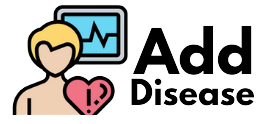
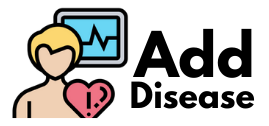
change layout

Changed region(s): [[0.0301, 0.0242, 0.4812, 0.9435], [0.5113, 0.1935, 0.9624, 0.629], [0.4812, 0.5323, 0.9624, 0.871]]

diff --git a/src/client/src/ui/layout/DNATest.js b/src/client/src/ui/layout/DNATest.js
@@ -74,7 +74,6 @@ function DNATestPage(){
   const handleSubmit = (e) => {
       e.preventDefault();
       setFormErrors(validate(formValues));
-      setResult(Information);
       setIsSubmit(true);
       createDNAtest(e);
       // createDNAtest(e).then(res => {getDNATest(e)});
@@ -198,13 +197,13 @@ function DNATestPage(){
 
   return (
         <div className='dnatest'>
-            <Flex align="center" justify="center" style={{height : "20vh", width : "93.3vw", marginLeft : "5vw"}}>
-                <Box>
-                  <Image boxSize='100%' src={dnatest} alt="logo"/>
+            <Flex backgroundColor="#91ACCA" align="center" justify="center" style={{height : "20vh", width : "93.3vw", marginLeft : "5vw"}}>
+                <Box py={"10px"}>
+                  <Image marginTop={"4vh"} marginBottom={"4vh"} boxSize='90%' src={dnatest} alt="logo"/>
                 </Box>
             </Flex>
 
-            <Box mb = '20px' align = "Center" marginTop={"3vh"} borderRadius={"20px"} marginLeft={"12vw"} marginRight={"7vw"} width={"80.3vw"} backgroundColor="#C0DBF8" padding={"1pt"}>
+            <Box align = "Center" marginTop={"3vh"} borderRadius={"20px"} marginLeft={"12vw"} marginRight={"7vw"} width={"80.3vw"} padding={"1pt"}>
             <VStack>
               <VStack p = '5px'>
                   <VStack px = '10'>
@@ -215,7 +214,7 @@ function DNATestPage(){
                               <Input name='namapengguna'  placeholder='Write your name here!' value={formValues.namapengguna}
                               onChange = {handleChange}
                               backgroundColor="white"
-                              border="2px solid #012B39"
+                              border="2px solid #BBC8D4"
                               width = "100%"
                               minWidth = "20vw"
                               maxWidth = "20vw"
@@ -228,6 +227,7 @@ function DNATestPage(){
                       Disease
                     </Box>
                       <Box borderRadius={"5pt"} backgroundColor={"white"} 
+                      border="2px solid #BBC8D4"
                       padding="0 0 0 10pt" 
                       width="100%" minWidth="20vw" maxWidth="20vw"
                       >
@@ -248,7 +248,9 @@ function DNATestPage(){
                       DNA Sequence
                     </Box>
                     <Flex>
-                        <Box style={{padding:"4pt 0 0 0", marginLeft:"5vw", marginTop:"5pt", border: "1px", width:"100%", minWidth:"17vw", maxWidth:"17vw", height:"100%", minHeight:"6vh", maxHeight:"6vh", backgroundColor:"white", borderRadius:"5pt"}} className="file-label" htmlFor='customFile'>
+                        <Box style={{padding:"4pt 0 0 0", marginLeft:"5vw", marginTop:"5pt", 
+                        border: "2px solid #BBC8D4", 
+                        width:"100%", minWidth:"17vw", maxWidth:"17vw", height:"100%", minHeight:"6vh", maxHeight:"6vh", backgroundColor:"white", borderRadius:"5pt"}} className="file-label" htmlFor='customFile'>
                             {filename}
                           </Box>
                           <Button onClick={handleClick} marginTop="1vh" colorScheme="blue">
@@ -299,7 +301,7 @@ function DNATestPage(){
               </VStack>
               
             </VStack>
-              <Box ref={scrollToRef}  backgroundColor={"#E1E5F1"} borderRadius="15pt" marginTop={"5vh"} marginBottom={"5vh"} width={"77vw"}>
+              <Box ref={scrollToRef} backgroundColor={"#E1E5F1"} borderRadius="15pt" marginTop={"5vh"} marginBottom={"5vh"} width={"77vw"}>
                 {result}
                 {/* <{result} props={data}/> */}
               </Box>

diff --git a/src/client/src/ui/layout/AddDisease.js b/src/client/src/ui/layout/AddDisease.js
@@ -1,8 +1,6 @@
 import { useToast, Button, FormControl,Input, Box, Flex, Spacer, Heading, Image, position, VStack, HStack, Badge } from "@chakra-ui/react";
 import React, { useState, useEffect } from "react";
 import './DNATest.css'
-import DiseaseForm from "./DiseaseForm";
-import disease from '../../assets/disease.png'
 import apiClient from "../../http-common.js";
 import { useRef } from "react";
 import * as FaIcons from 'react-icons/fa';
@@ -112,9 +110,9 @@ function AddDiseasePage(){
   }
   return(
     <VStack>
-      <Flex align="center" justify="center" style={{height : "20vh", width : "93.3vw", marginLeft : "5vw"}}>
+      <Flex marginTop="3vh" marginBottom={"3vh"} align="center" justify="center" style={{height : "20vh", width : "93.3vw", marginLeft : "5vw"}}>
           <Box>
-            <Image boxSize='100%' src={dispage} alt="logo"/>
+            <Image marginTop={"4vh"} marginBottom={"4vh"} boxSize='100%' src={dispage} alt="logo"/>
           </Box>
       </Flex>
       <Box backgroundColor={"#E1E5F1"} marginLeft="7vw" borderRadius="15pt" >

diff --git a/src/client/src/ui/layout/History.js b/src/client/src/ui/layout/History.js
@@ -92,7 +92,7 @@ function HistoryPage(){
       >
         HISTORY
       </Heading > */}
-      <Flex align="center" justify="center"  py = '10'>
+      <Flex align="center" justify="center"  py = '1.5vh'>
           <Box>
             <Image boxSize='100%' src={tes1} alt="logo1"/>
           </Box>
